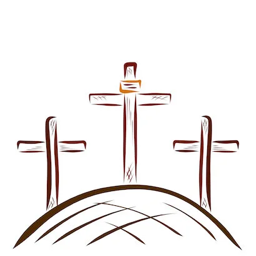
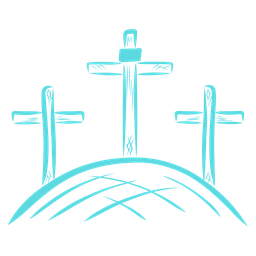
Switch to teal/navy palette with crosses as the church mark
- Replace dark pine palette with navy-teal + #5bdae1 accent
- Use crosses image for favicon, header logo, hero overlay, footer
- Footer crosses are teal-recolored; favicon cropped tighter

diff --git a/src/app/globals.css b/src/app/globals.css
@@ -1,16 +1,16 @@
 :root {
-  --ink: #172426;
+  --ink: #0f2227;
   --muted: #5f6d70;
   --paper: #fbfaf6;
   --white: #ffffff;
-  --pine: #123f3f;
-  --pine-dark: #092b2e;
-  --cranberry: #5a1f35;
-  --copper: #b85f32;
-  --gold: #d7aa4b;
-  --mist: #e7efed;
-  --line: rgba(23, 36, 38, 0.14);
-  --shadow: 0 20px 70px rgba(9, 43, 46, 0.14);
+  --pine: #0e4750;
+  --pine-dark: #082c36;
+  --cranberry: #1a3d5c;
+  --copper: #2a8a91;
+  --gold: #5bdae1;
+  --mist: #e1f4f5;
+  --line: rgba(15, 34, 39, 0.14);
+  --shadow: 0 20px 70px rgba(8, 44, 54, 0.14);
 }
 
 * {
@@ -98,15 +98,14 @@ main {
 }
 
 .brand img {
-  width: 48px;
-  height: 48px;
-  border-radius: 8px;
-  object-fit: cover;
-  border: 1px solid var(--line);
+  width: 52px;
+  height: 52px;
+  object-fit: contain;
 }
 
 .brand span {
   display: grid;
+  margin-top: 6px;
   line-height: 1.15;
 }
 
@@ -234,8 +233,28 @@ main {
   z-index: -1;
   content: "";
   background:
-    linear-gradient(90deg, rgba(9, 43, 46, 0.86), rgba(9, 43, 46, 0.42) 55%, rgba(9, 43, 46, 0.2)),
-    linear-gradient(0deg, rgba(9, 43, 46, 0.78), rgba(9, 43, 46, 0) 60%);
+    linear-gradient(90deg, rgba(8, 44, 54, 0.86), rgba(8, 44, 54, 0.42) 55%, rgba(8, 44, 54, 0.2)),
+    linear-gradient(0deg, rgba(8, 44, 54, 0.78), rgba(8, 44, 54, 0) 60%);
+}
+
+.hero-crosses {
+  position: absolute;
+  inset: 0;
+  display: flex;
+  align-items: center;
+  justify-content: flex-end;
+  padding-right: max(24px, calc((100vw - 1320px) / 2));
+  pointer-events: none;
+}
+
+.hero-crosses img {
+  width: auto;
+  height: auto;
+  max-width: min(46vw, 540px);
+  max-height: 76%;
+  object-fit: contain;
+  opacity: 0.92;
+  filter: brightness(0) invert(1) drop-shadow(0 6px 30px rgba(8, 44, 54, 0.45));
 }
 
 .hero-content {
@@ -393,7 +412,7 @@ h3 {
   border: 1px solid var(--line);
   border-radius: 8px;
   background: var(--white);
-  box-shadow: 0 10px 35px rgba(9, 43, 46, 0.06);
+  box-shadow: 0 10px 35px rgba(8, 44, 54, 0.06);
   color: var(--ink);
   font-weight: 800;
 }
@@ -569,7 +588,7 @@ h3 {
   inset: 0;
   z-index: -1;
   content: "";
-  background: linear-gradient(90deg, rgba(9, 43, 46, 0.92), rgba(90, 31, 53, 0.62));
+  background: linear-gradient(90deg, rgba(8, 44, 54, 0.92), rgba(26, 61, 92, 0.62));
 }
 
 .page-hero > img {
@@ -620,7 +639,7 @@ h3 {
   border-radius: 8px;
   background: var(--white);
   padding: 24px;
-  box-shadow: 0 10px 35px rgba(9, 43, 46, 0.06);
+  box-shadow: 0 10px 35px rgba(8, 44, 54, 0.06);
 }
 
 .article-card .meta {
@@ -869,12 +888,20 @@ h3 {
   padding: 60px 22px 38px;
 }
 
+.footer-grid > section:first-child {
+  text-align: center;
+}
+
+.footer-grid > section:first-child p {
+  justify-content: center;
+}
+
 .footer-logo {
-  width: 70px;
-  height: 70px;
-  object-fit: cover;
-  border-radius: 8px;
-  margin-bottom: 15px;
+  display: block;
+  width: 130px;
+  height: 130px;
+  object-fit: contain;
+  margin: 0 auto 15px;
 }
 
 .site-footer h2 {
@@ -946,6 +973,17 @@ h3 {
 
   .hero-content {
     padding: 80px 22px 60px;
+  }
+
+  .hero-crosses {
+    justify-content: center;
+    padding-right: 0;
+  }
+
+  .hero-crosses img {
+    max-width: 70vw;
+    max-height: 55%;
+    opacity: 0.22;
   }
 
   .split,

diff --git a/src/app/[[...slug]]/page.tsx b/src/app/[[...slug]]/page.tsx
@@ -91,6 +91,9 @@ function HomePage() {
         <div className="hero-media">
           <Image src="/wood-river-baptist-church.jpg" alt="" fill priority sizes="100vw" />
         </div>
+        <div className="hero-crosses" aria-hidden>
+          <Image src="/woodriver/wood-riverctosses.png" alt="" width={620} height={620} />
+        </div>
         <div className="hero-content">
           <p className="eyebrow">Wyoming, Rhode Island</p>
           <h1>{site.name}</h1>

diff --git a/src/components/Header.tsx b/src/components/Header.tsx
@@ -21,7 +21,7 @@ export function Header() {
       </div>
       <nav className="main-nav" aria-label="Primary navigation">
         <Link className="brand" href="/" onClick={close}>
-          <Image src="/woodriver/logo.jpg" alt="" width={96} height={96} priority />
+          <Image src="/woodriver/wood-riverctosses.png" alt="" width={96} height={96} priority />
           <span>
             <strong>{site.name}</strong>
             <small>{site.tagline}</small>

diff --git a/src/components/Footer.tsx b/src/components/Footer.tsx
@@ -8,7 +8,7 @@ export function Footer() {
     <footer className="site-footer">
       <div className="footer-grid">
         <section>
-          <Image className="footer-logo" src="/woodriver/logo.jpg" alt="" width={140} height={140} />
+          <Image className="footer-logo" src="/woodriver/wood-riverctosses-teal.png" alt="" width={260} height={260} />
           <h2>{site.name}</h2>
           <p>{site.tagline}</p>
         </section>
